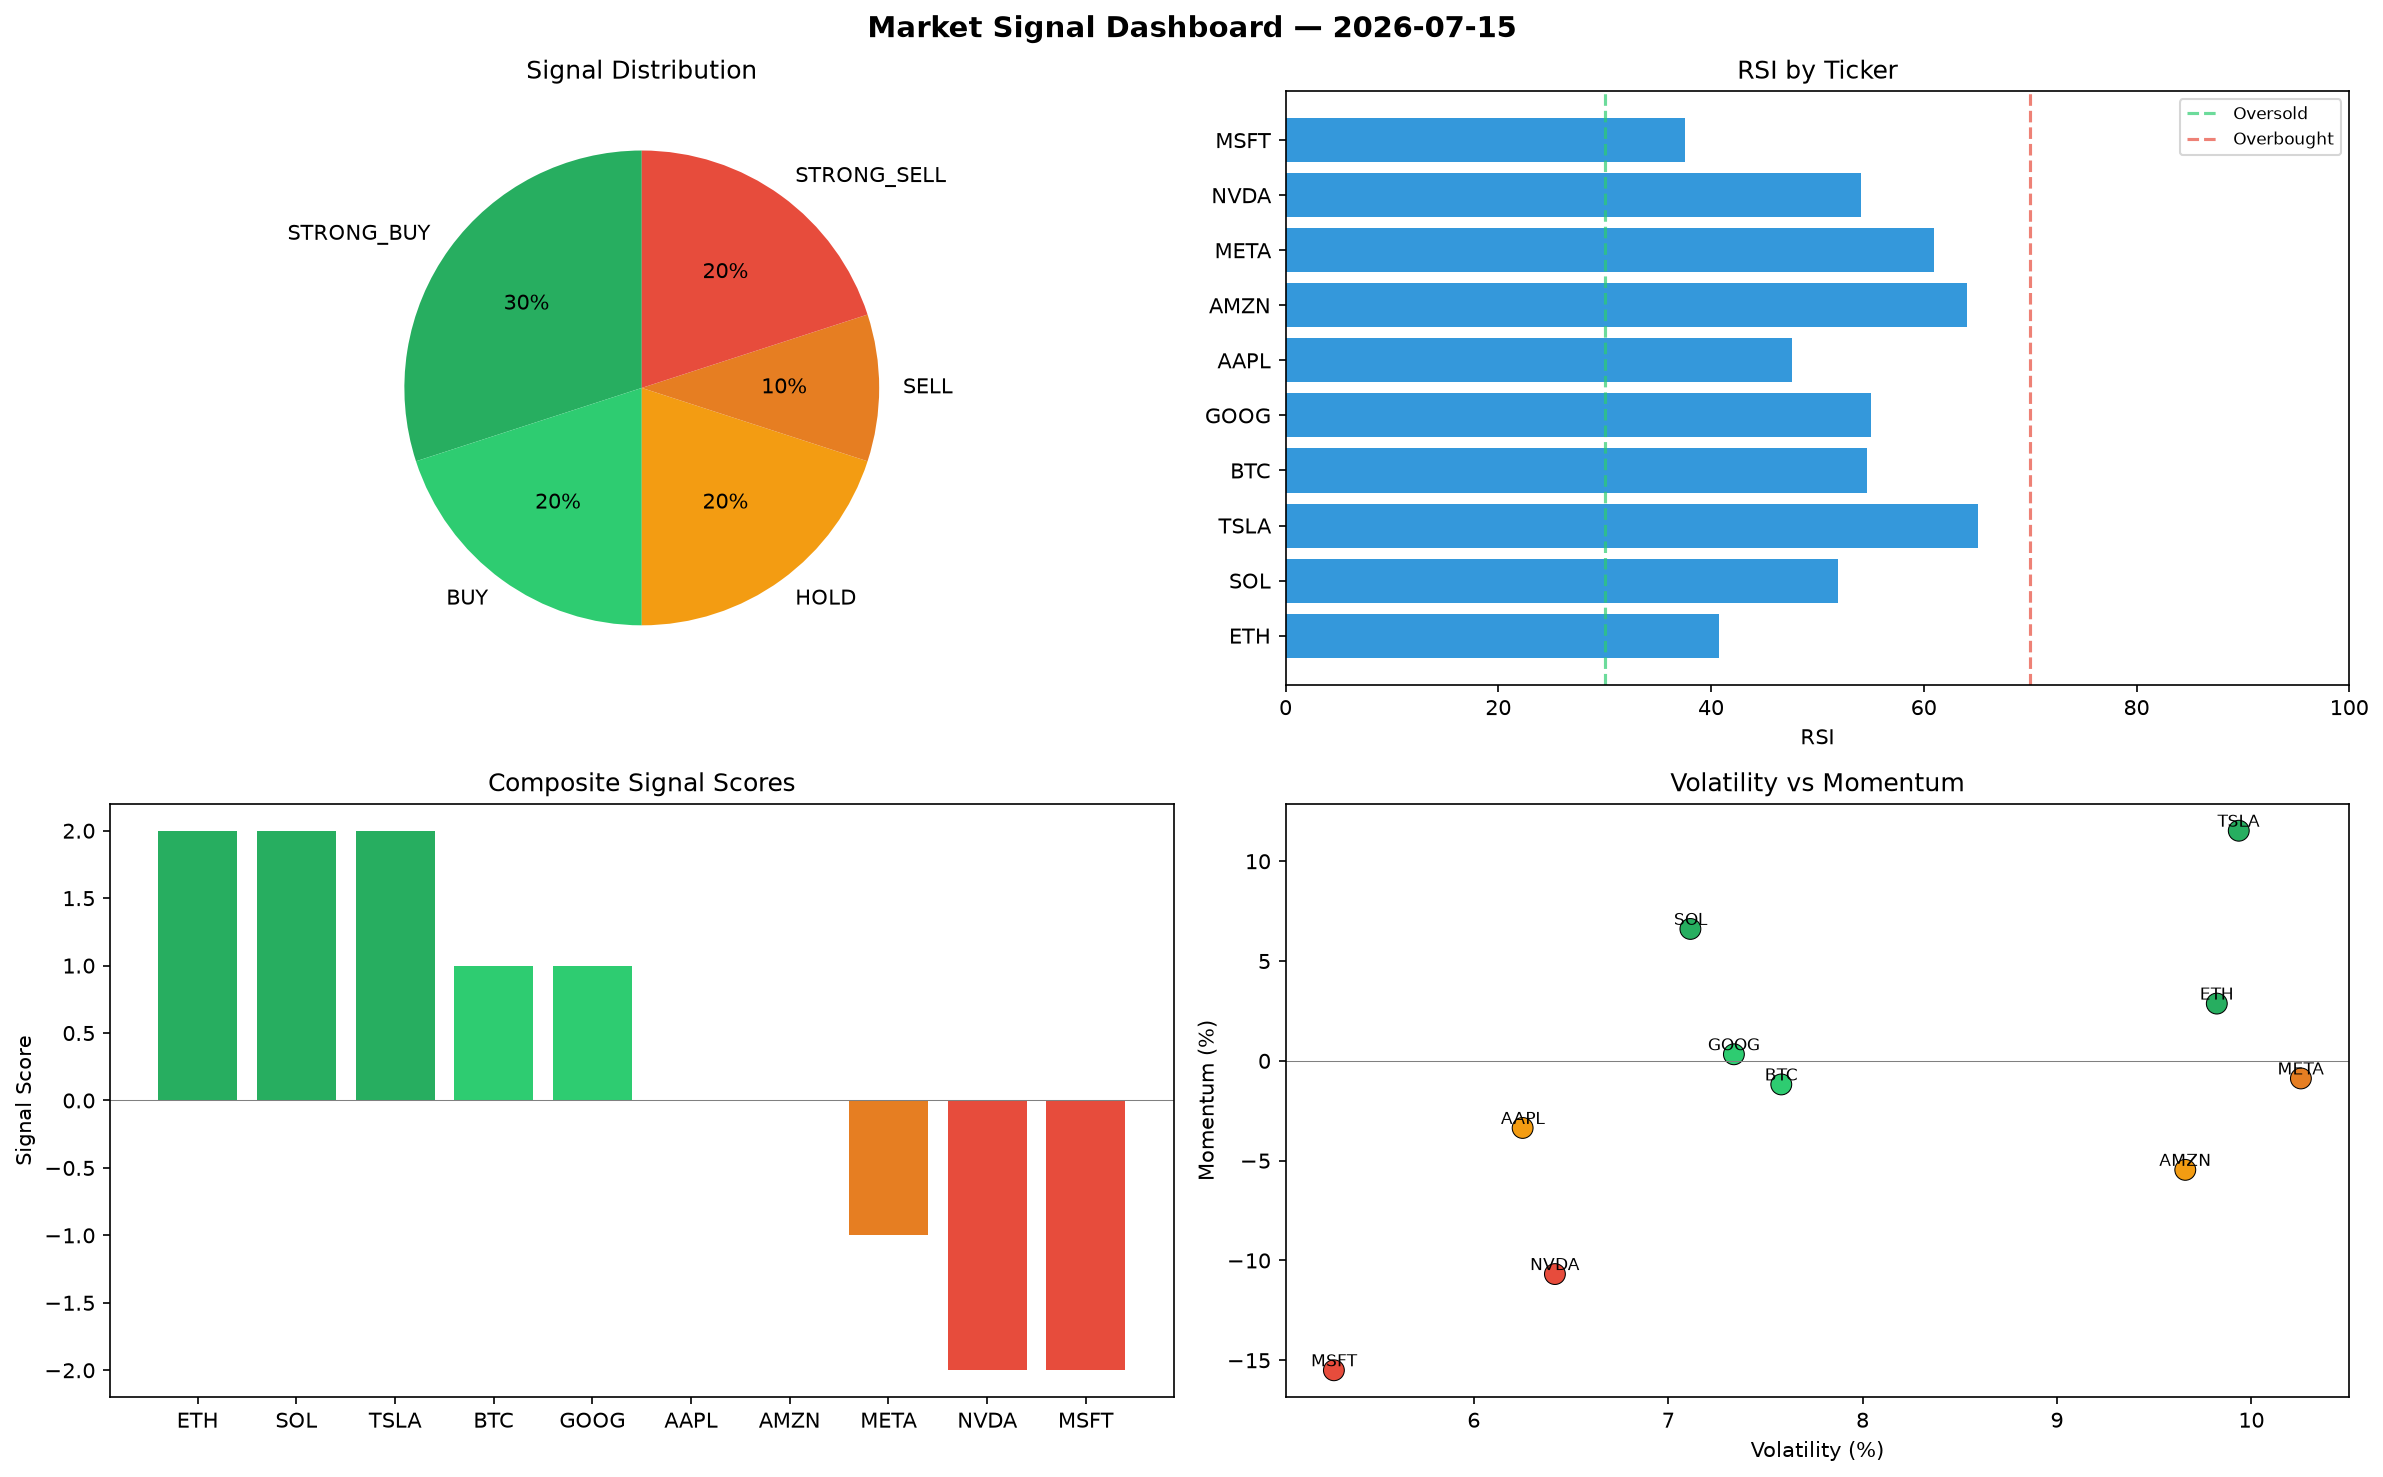
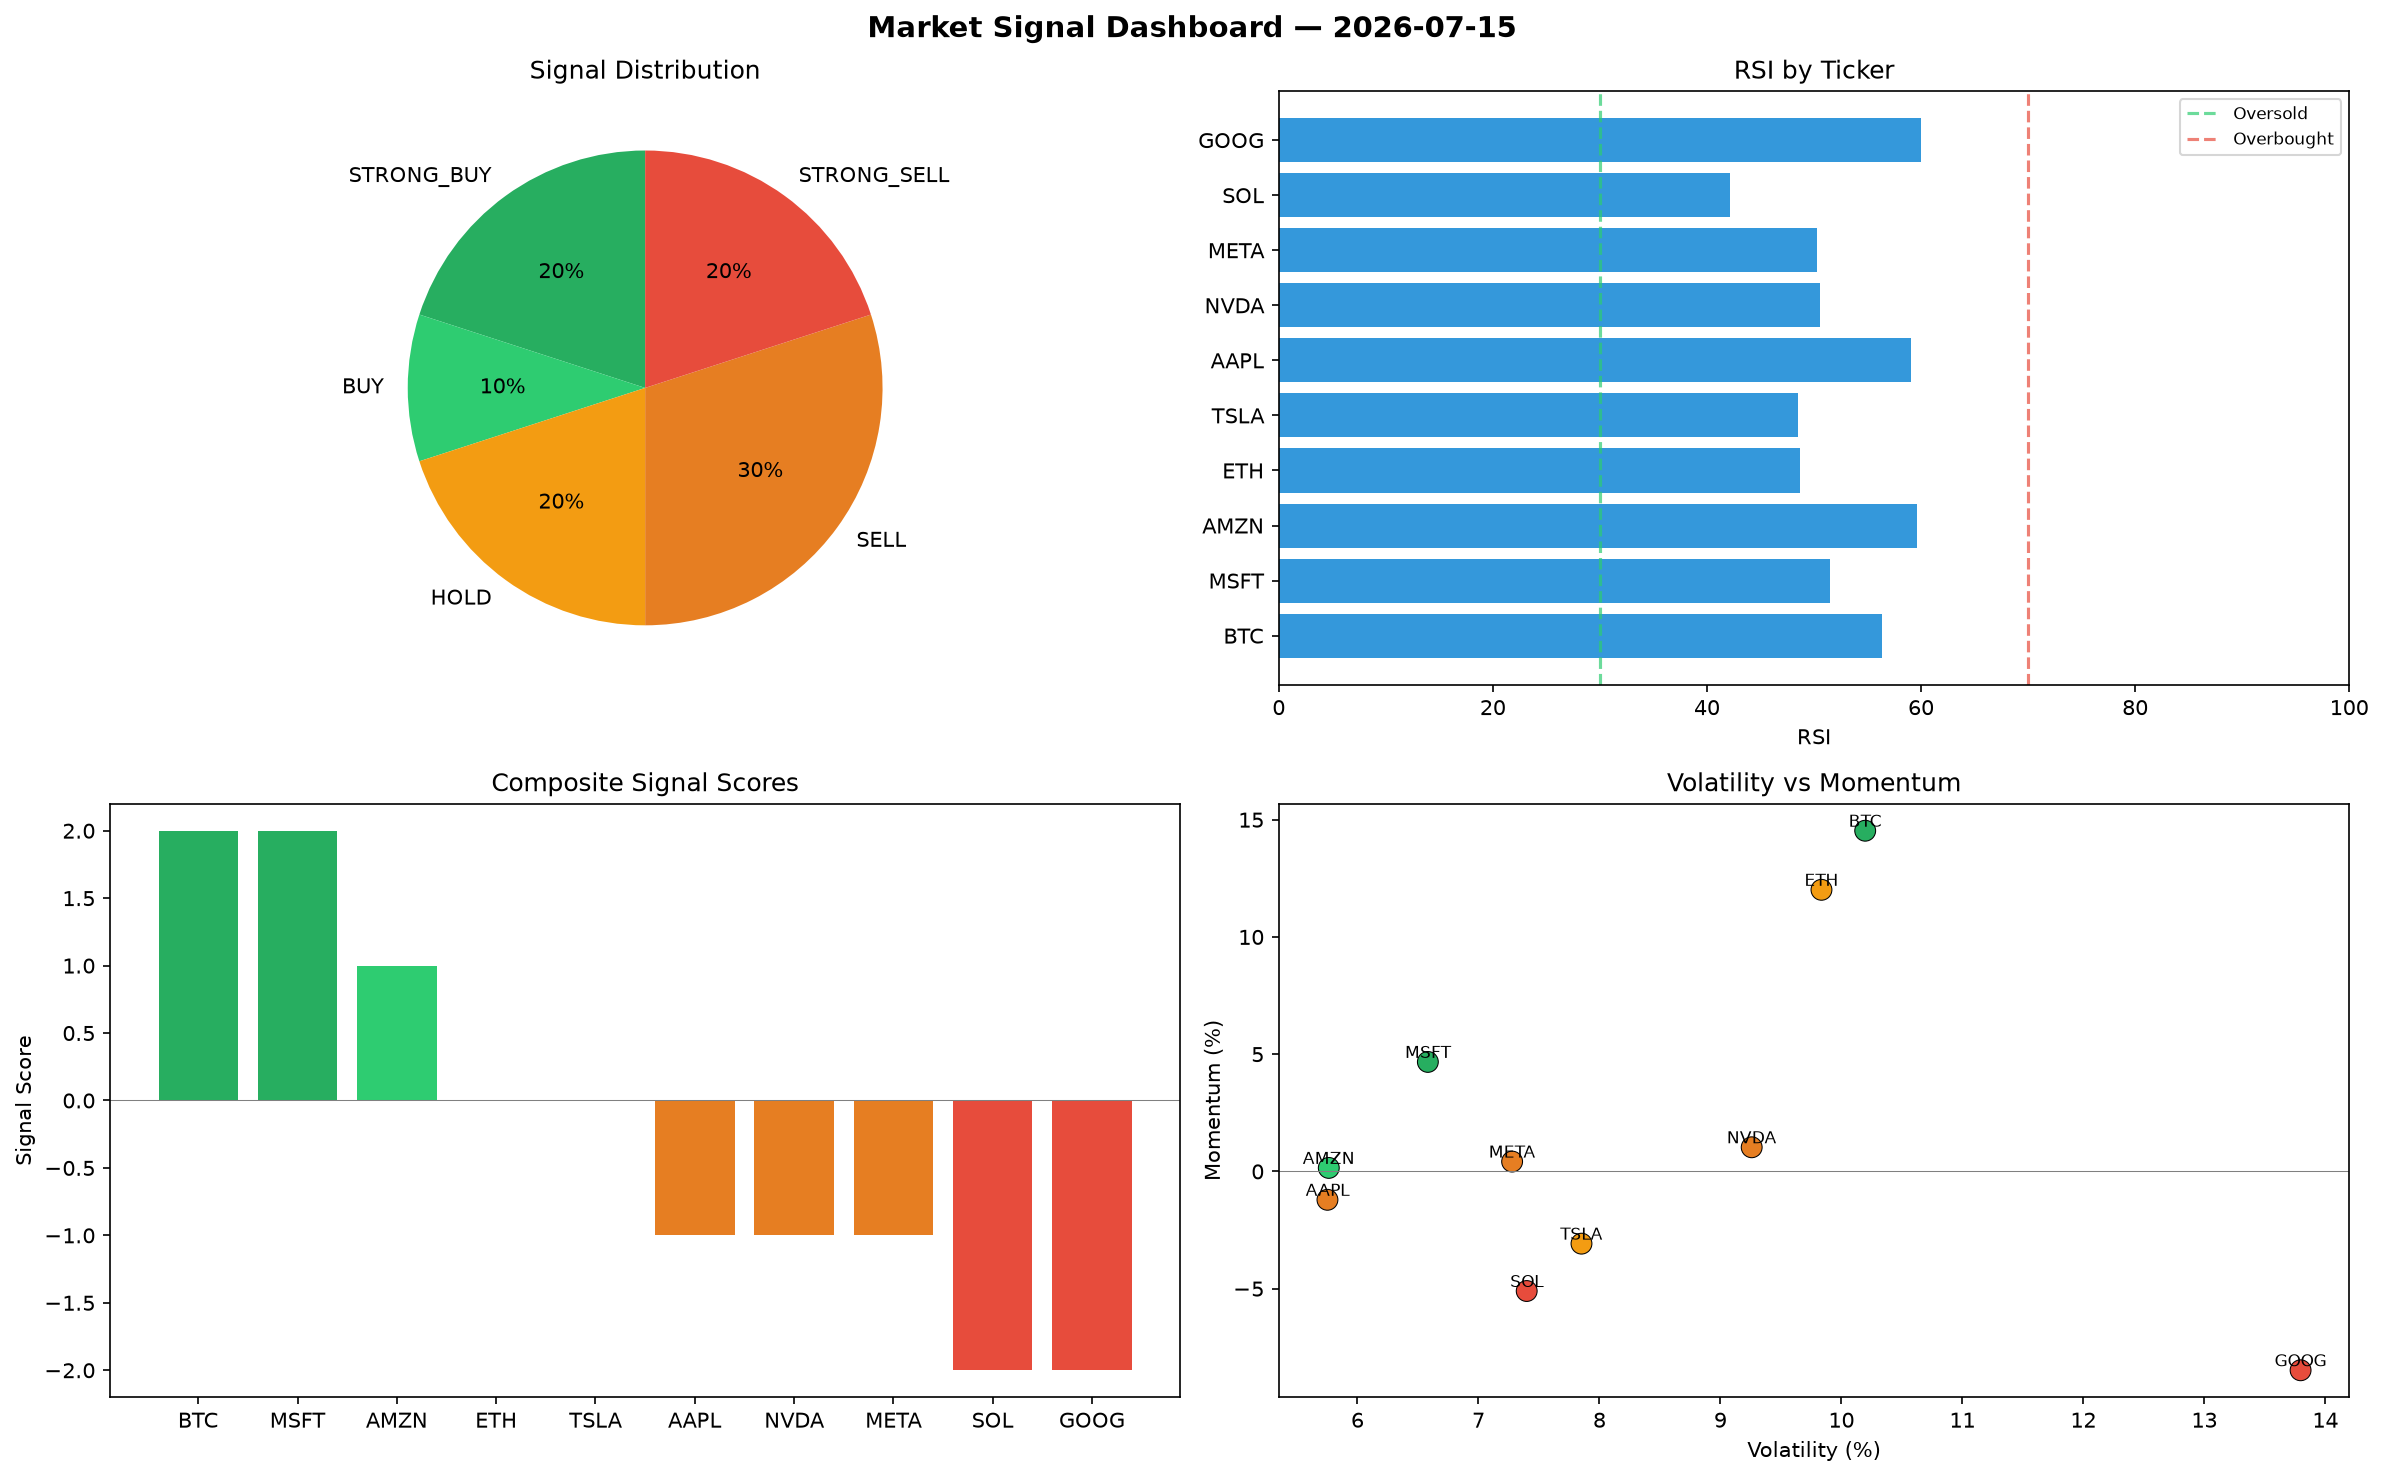
automated-bots: market signals 2026-07-15T16:02

diff --git a/logs/2026-07-15.md b/logs/2026-07-15.md
@@ -1,6 +1,6 @@
 # Market Signal Report — 2026-07-15
 
-**Run ID:** `ff82b9ce0b` | **Buy:** 5 | **Sell:** 3 | **Hold:** 2
+**Run ID:** `df8deb1cd1` | **Buy:** 3 | **Sell:** 5 | **Hold:** 2
 
 ![Dashboard](2026-07-15_dashboard.png)
 
@@ -8,28 +8,28 @@
 
 | Ticker | Price | Signal | Score | RSI | Momentum | Confidence |
 |--------|-------|--------|-------|-----|----------|------------|
-| ETH | $4834.12 | **STRONG_BUY** | 2 | 40.77 | 0.0287 | 0.5 |
-| SOL | $4333.67 | **STRONG_BUY** | 2 | 51.89 | 0.0661 | 0.5 |
-| TSLA | $2164.6 | **STRONG_BUY** | 2 | 65.12 | 0.1153 | 0.5 |
-| BTC | $1612.61 | **BUY** | 1 | 54.63 | -0.0118 | 0.25 |
-| GOOG | $2897.5 | **BUY** | 1 | 55.02 | 0.0033 | 0.25 |
-| AAPL | $3094.36 | **HOLD** | 0 | 47.59 | -0.0336 | 0.0 |
-| AMZN | $4441.49 | **HOLD** | 0 | 64.05 | -0.0546 | 0.0 |
-| META | $3387.39 | **SELL** | -1 | 60.93 | -0.0088 | 0.25 |
-| NVDA | $521.54 | **STRONG_SELL** | -2 | 54.06 | -0.1068 | 0.5 |
-| MSFT | $3926.86 | **STRONG_SELL** | -2 | 37.56 | -0.155 | 0.5 |
+| BTC | $317.83 | **STRONG_BUY** | 2 | 56.31 | 0.1453 | 0.5 |
+| MSFT | $776.91 | **STRONG_BUY** | 2 | 51.53 | 0.0467 | 0.5 |
+| AMZN | $4277.31 | **BUY** | 1 | 59.64 | 0.0015 | 0.25 |
+| ETH | $2406.58 | **HOLD** | 0 | 48.73 | 0.1201 | 0.0 |
+| TSLA | $3346.05 | **HOLD** | 0 | 48.54 | -0.0308 | 0.0 |
+| AAPL | $1863.5 | **SELL** | -1 | 59.02 | -0.0121 | 0.25 |
+| NVDA | $240.11 | **SELL** | -1 | 50.55 | 0.0103 | 0.25 |
+| META | $4637.88 | **SELL** | -1 | 50.24 | 0.0042 | 0.25 |
+| SOL | $163.02 | **STRONG_SELL** | -2 | 42.17 | -0.051 | 0.5 |
+| GOOG | $1249.32 | **STRONG_SELL** | -2 | 60.03 | -0.0848 | 0.5 |
 
 ## Delta vs Yesterday
 
 | Ticker | Today | Yesterday | Price Change | Signal Changed |
 |--------|-------|-----------|-------------|----------------|
-| ETH | STRONG_BUY | STRONG_BUY | 📈 337.82% | — |
-| SOL | STRONG_BUY | STRONG_BUY | 📈 3.2% | — |
-| TSLA | STRONG_BUY | STRONG_SELL | 📉 -24.98% | ⚠ YES |
-| BTC | BUY | STRONG_SELL | 📉 -11.72% | ⚠ YES |
-| GOOG | BUY | HOLD | 📈 280.91% | ⚠ YES |
-| AAPL | HOLD | STRONG_BUY | 📈 319.97% | ⚠ YES |
-| AMZN | HOLD | STRONG_SELL | 📈 40.62% | ⚠ YES |
-| META | SELL | HOLD | 📉 -18.82% | ⚠ YES |
-| NVDA | STRONG_SELL | STRONG_SELL | 📉 -86.69% | — |
-| MSFT | STRONG_SELL | HOLD | 📈 49.98% | ⚠ YES |
+| BTC | STRONG_BUY | STRONG_SELL | 📉 -82.6% | ⚠ YES |
+| MSFT | STRONG_BUY | HOLD | 📉 -70.33% | ⚠ YES |
+| AMZN | BUY | STRONG_SELL | 📈 35.43% | ⚠ YES |
+| ETH | HOLD | STRONG_BUY | 📈 117.96% | ⚠ YES |
+| TSLA | HOLD | STRONG_SELL | 📈 15.97% | ⚠ YES |
+| AAPL | SELL | STRONG_BUY | 📈 152.92% | ⚠ YES |
+| NVDA | SELL | STRONG_SELL | 📉 -93.87% | ⚠ YES |
+| META | SELL | HOLD | 📈 11.15% | ⚠ YES |
+| SOL | STRONG_SELL | STRONG_BUY | 📉 -96.12% | ⚠ YES |
+| GOOG | STRONG_SELL | HOLD | 📈 64.24% | ⚠ YES |
